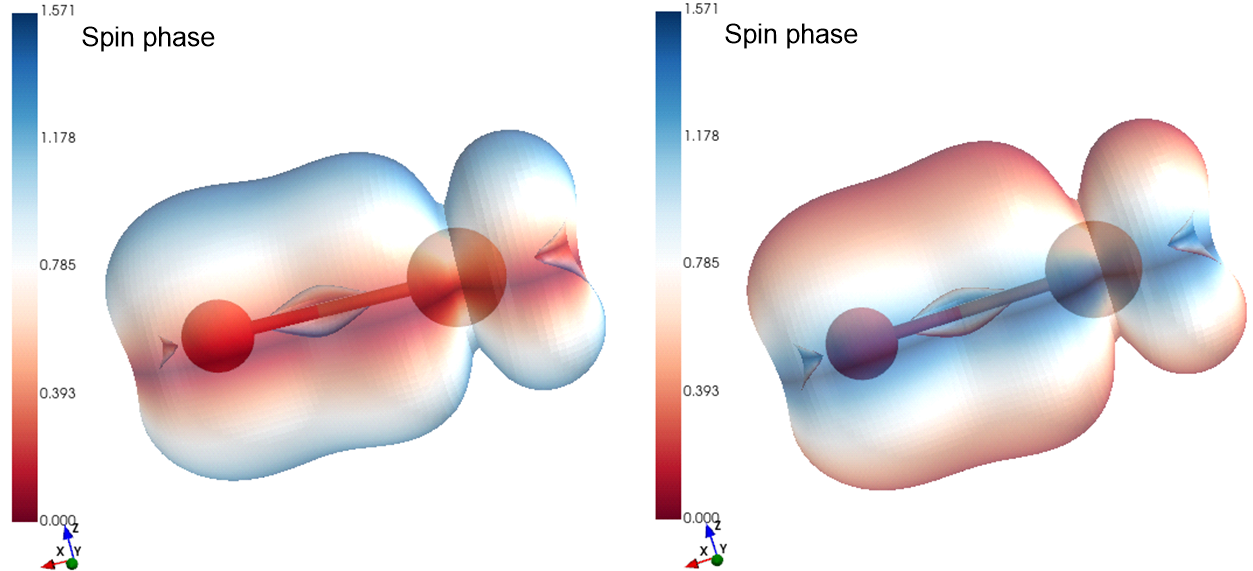
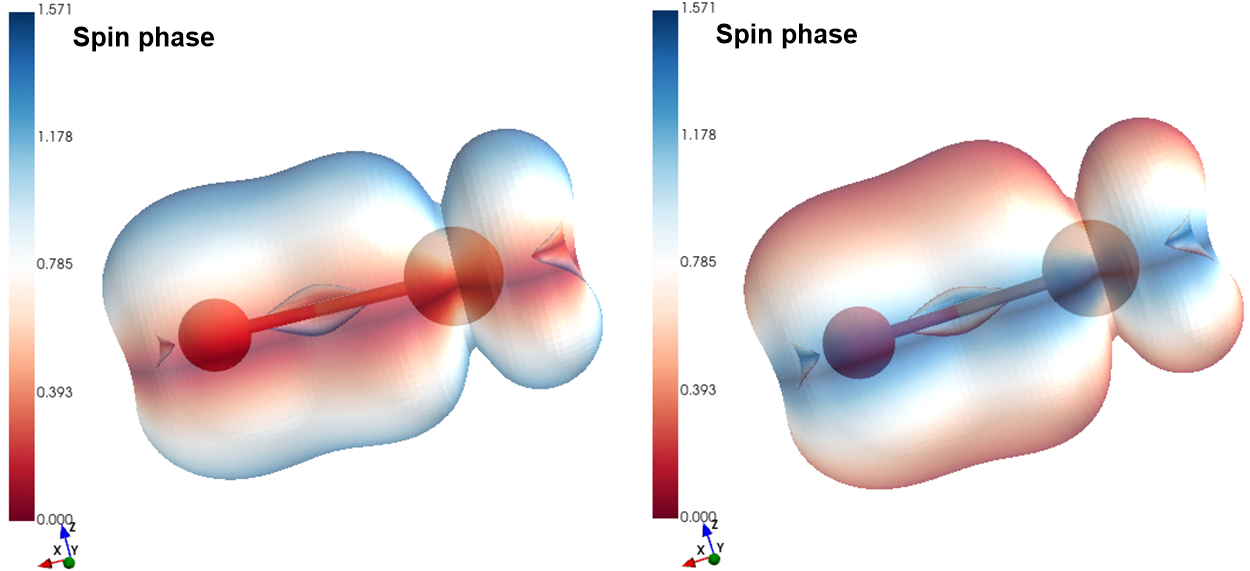
add orthogonalized residual

diff --git a/readme.md b/readme.md
@@ -67,7 +67,7 @@ orbital components.
 Grimme's group.
 
 > For mathematical and algorithmic details, see
-`docs/Mathematics_and_Algorithms.pdf`.
+`docs/TRESC_Mathematics_and_Algorithms.md`.
 
 # Characteristic
 
